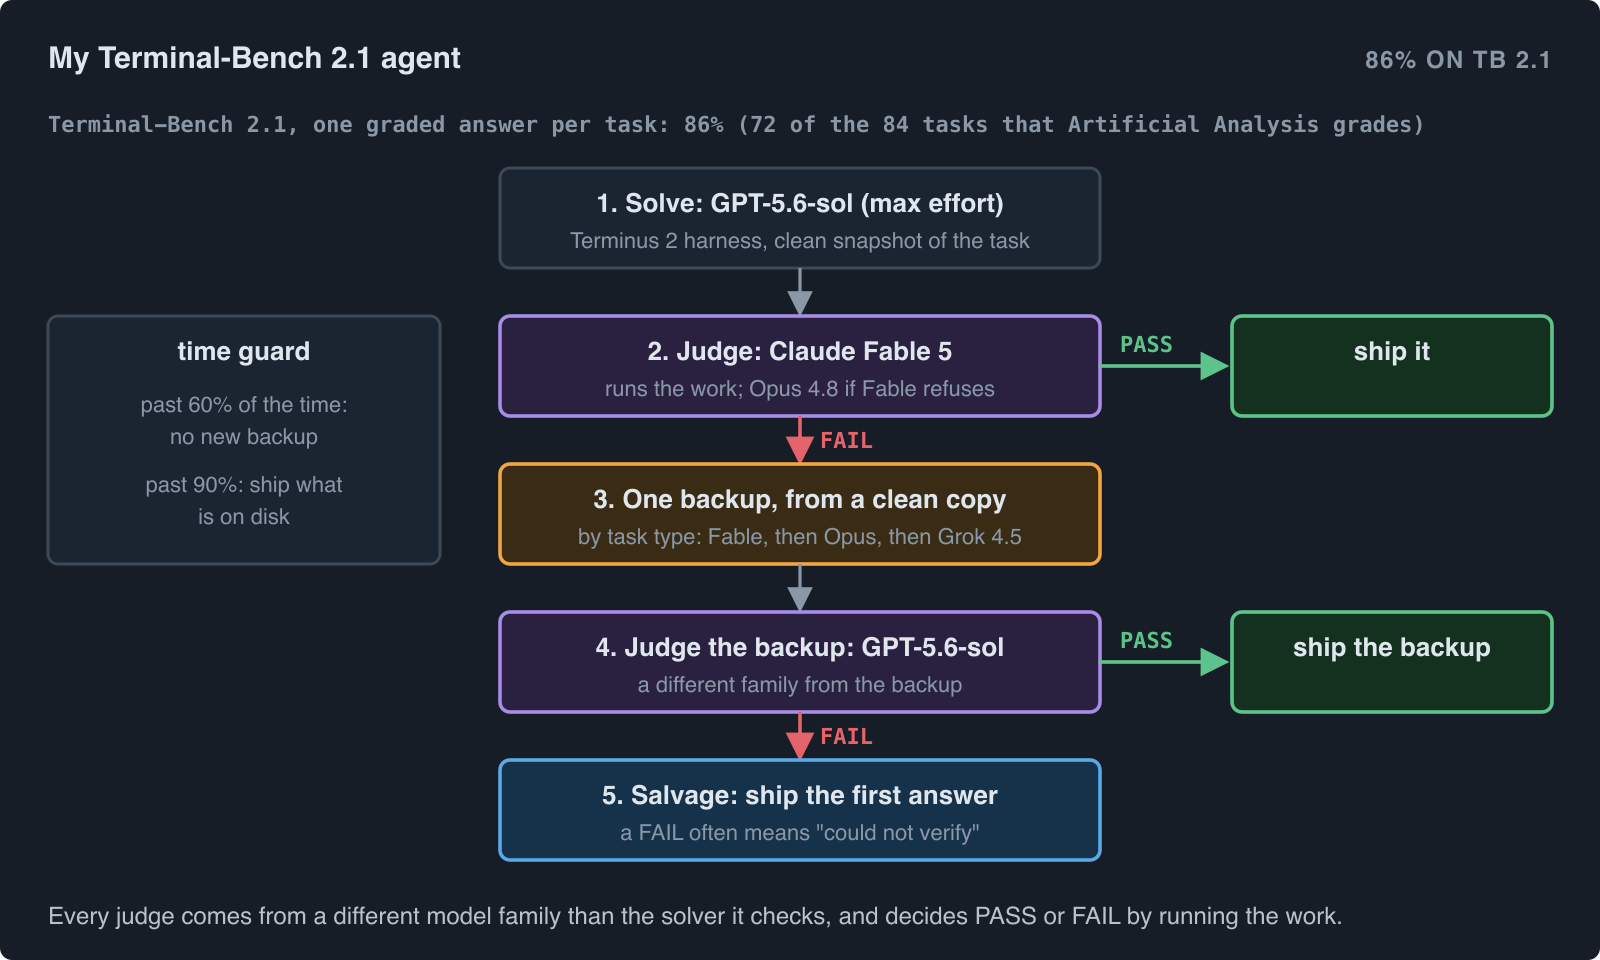
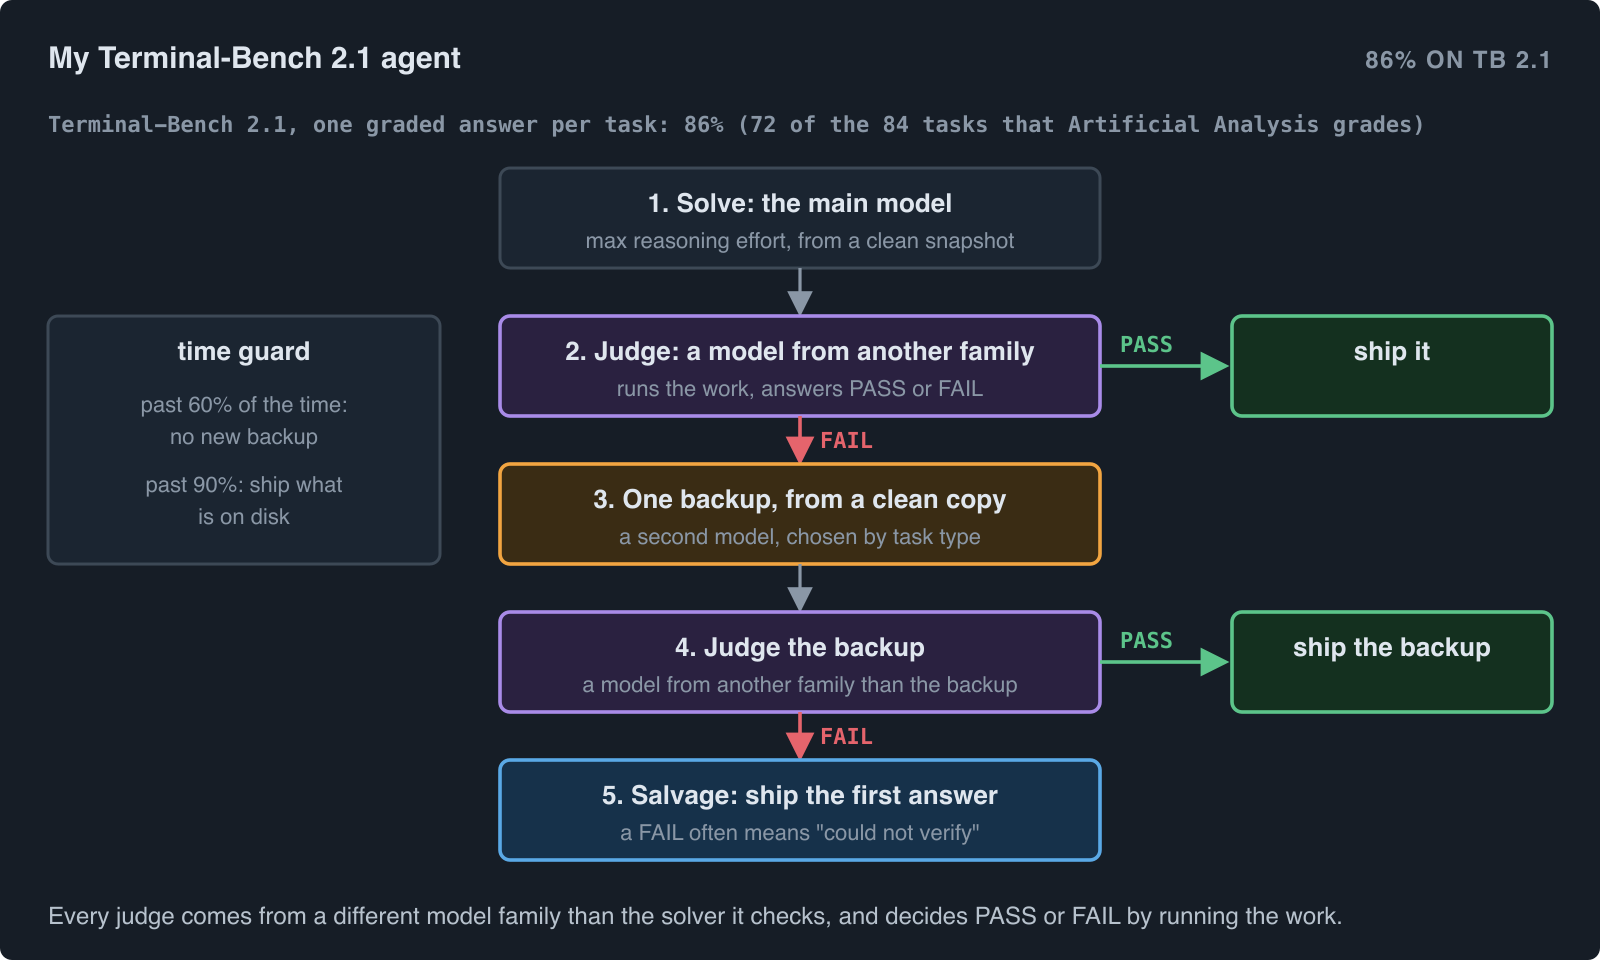
agent-benchmarks: Part A is the score and the architecture diagram, with no model names

diff --git a/agent-benchmarks/images/src/make_figures.py b/agent-benchmarks/images/src/make_figures.py
@@ -125,15 +125,15 @@ def node(x, y, w, h, k, title, sub=""):
 def arrow(x1, y1, x2, y2, c="arrow"):
     return f'<line class="{c}" x1="{x1}" y1="{y1}" x2="{x2}" y2="{y2}"/>'
 body = ('<text class="m s" x="24" y="66">Terminal-Bench 2.1, one graded answer per task: 86% (72 of the 84 tasks that Artificial Analysis grades)</text>'
-        + node(250, 84, 300, 50, "box", "1. Solve: GPT-5.6-sol (max effort)", "Terminus 2 harness, clean snapshot of the task")
+        + node(250, 84, 300, 50, "box", "1. Solve: the main model", "max reasoning effort, from a clean snapshot")
         + arrow(400, 134, 400, 156)
-        + node(250, 158, 300, 50, "purple", "2. Judge: Claude Fable 5", "runs the work; Opus 4.8 if Fable refuses")
+        + node(250, 158, 300, 50, "purple", "2. Judge: a model from another family", "runs the work, answers PASS or FAIL")
         + arrow(550, 183, 612, 183, "arrowg") + '<text class="m g" x="560" y="176">PASS</text>'
         + node(616, 158, 160, 50, "good", "ship it", "")
         + arrow(400, 208, 400, 230, "arrowr") + '<text class="m r" x="410" y="224">FAIL</text>'
-        + node(250, 232, 300, 50, "amber", "3. One backup, from a clean copy", "by task type: Fable, then Opus, then Grok 4.5")
+        + node(250, 232, 300, 50, "amber", "3. One backup, from a clean copy", "a second model, chosen by task type")
         + arrow(400, 282, 400, 304)
-        + node(250, 306, 300, 50, "purple", "4. Judge the backup: GPT-5.6-sol", "a different family from the backup")
+        + node(250, 306, 300, 50, "purple", "4. Judge the backup", "a model from another family than the backup")
         + arrow(550, 331, 612, 331, "arrowg") + '<text class="m g" x="560" y="324">PASS</text>'
         + node(616, 306, 160, 50, "good", "ship the backup", "")
         + arrow(400, 356, 400, 378, "arrowr") + '<text class="m r" x="410" y="372">FAIL</text>'
@@ -142,5 +142,5 @@ body = ('<text class="m s" x="24" y="66">Terminal-Bench 2.1, one graded answer p
         + '<text class="d" x="122" y="206" text-anchor="middle">past 60% of the time:</text><text class="d" x="122" y="222" text-anchor="middle">no new backup</text>'
         + '<text class="d" x="122" y="246" text-anchor="middle">past 90%: ship what</text><text class="d" x="122" y="262" text-anchor="middle">is on disk</text>'
         + '<text class="cap" x="24" y="462">Every judge comes from a different model family than the solver it checks, and decides PASS or FAIL by running the work.</text>')
-svg("06-my-tb21-architecture", 800, 480, "My Terminal-Bench 2.1 agent: GPT-5.6-sol solves, Claude Fable 5 judges, one domain-routed backup from a clean copy judged by GPT-5.6-sol, salvage of the first answer, and a time guard", "My Terminal-Bench 2.1 agent", "86% ON TB 2.1", body)
+svg("06-my-tb21-architecture", 800, 480, "My Terminal-Bench 2.1 agent: a main model solves, a judge from another model family checks it, one backup from a clean copy is judged the same way, the first answer is salvaged, and a time guard protects the clock", "My Terminal-Bench 2.1 agent", "86% ON TB 2.1", body)
 print("done")

diff --git a/agent-benchmarks/blog.md b/agent-benchmarks/blog.md
@@ -191,21 +191,9 @@ To prepare for any of these boards, read Part B.
 
 # Part A: My coding agent on Terminal-Bench 2.1
 
-**Score: 86%.** My agent solved 72 of the 84 Terminal-Bench 2.1 tasks that Artificial Analysis grades (85.7%), in one full run, with one graded answer for each task (pass@1). Counting all 89 tasks, it solved 75 (84.3%).
+**Score: 86%.** My agent solved 72 of the 84 Terminal-Bench 2.1 tasks that Artificial Analysis grades (85.7%), in one full run, with one graded answer for each task (pass@1).
 
-![My Terminal-Bench 2.1 agent: GPT-5.6-sol solves, Claude Fable 5 judges, one domain-routed backup from a clean copy judged by GPT-5.6-sol, salvage of the first answer, and a time guard](images/06-my-tb21-architecture.png)
-
-**The architecture.**
-
-1. **Solve.** GPT-5.6-sol, at maximum reasoning effort, solves the task in the Terminus 2 harness. A snapshot of the clean task folder is saved first.
-2. **Judge.** Claude Fable 5 checks the work by running it (up to 8 commands) and answers PASS or FAIL. If the task is one that Fable refuses (for example security or biology tasks), Claude Opus 4.8 judges it.
-3. **PASS: ship it.** Most tasks end here, with one solve.
-4. **FAIL: one backup.** The clean snapshot is restored, and one second model solves the task again, chosen by the task type: Fable first, then Opus 4.8, then Grok 4.5. It never sees the first attempt's files.
-5. **Judge the backup.** GPT-5.6-sol checks it. If it passes, the backup ships.
-6. **Salvage.** If the backup also fails, the first answer ships. A judge's FAIL often means "I could not verify it", and the first answer was often right.
-7. **Time guard.** Past 60% of the time budget, no new backup starts. Past 90%, the agent ships what it has, so a task is never graded as an empty timeout.
-
-**Why it is built this way.** A judge from the same model family as the solver approves its own mistakes, so each judge comes from a different family. The agent decides on PASS or FAIL, not on a confidence number. A backup that starts from a clean copy does not repeat the first model's wrong approach.
+![My Terminal-Bench 2.1 agent: a main model solves, a judge from another model family checks it, one backup from a clean copy is judged the same way, the first answer is salvaged, and a time guard protects the clock](images/06-my-tb21-architecture.png)
 
 ---
 
@@ -372,4 +360,4 @@ But keep the two reports separate. An inference engine leaderboard does not tell
 
 # Summary
 
-Start from the leaderboard you want, because it tells you what to measure and who measures it. For coding agent leaderboards, my 86% on Terminal-Bench 2.1 came from one strong solver, a judge from another model family, one backup from a clean copy, salvage, and a time guard. For inference engine leaderboards, know the two kinds of TPS, calculate the ceiling, measure the way the board does, and check quality after every speed change. The two topics meet in agent task time: a faster server finishes more agent tasks inside the time limit.
+Start from the leaderboard you want, because it tells you what to measure and who measures it. For coding agent leaderboards, my agent scored 86% on Terminal-Bench 2.1 (architecture in Part A). For inference engine leaderboards, know the two kinds of TPS, calculate the ceiling, measure the way the board does, and check quality after every speed change. The two topics meet in agent task time: a faster server finishes more agent tasks inside the time limit.
